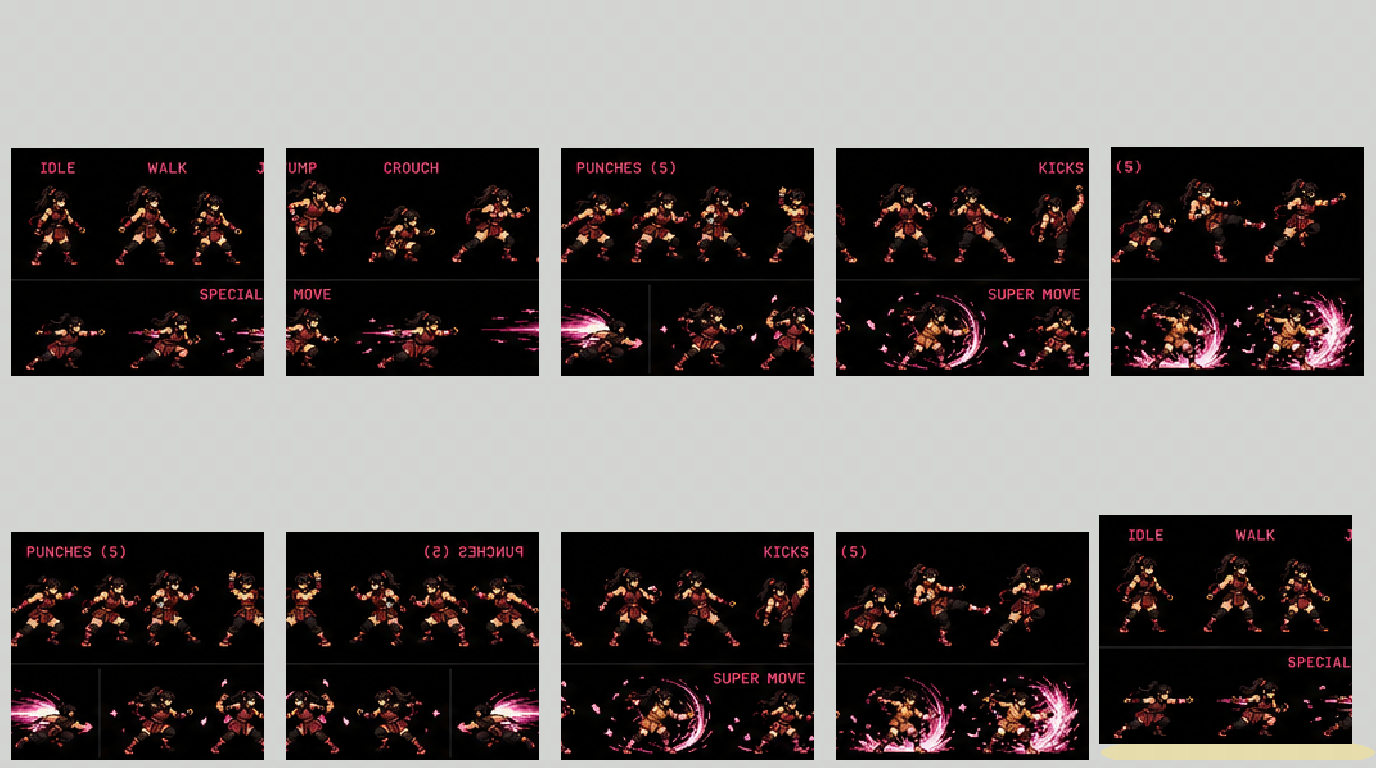
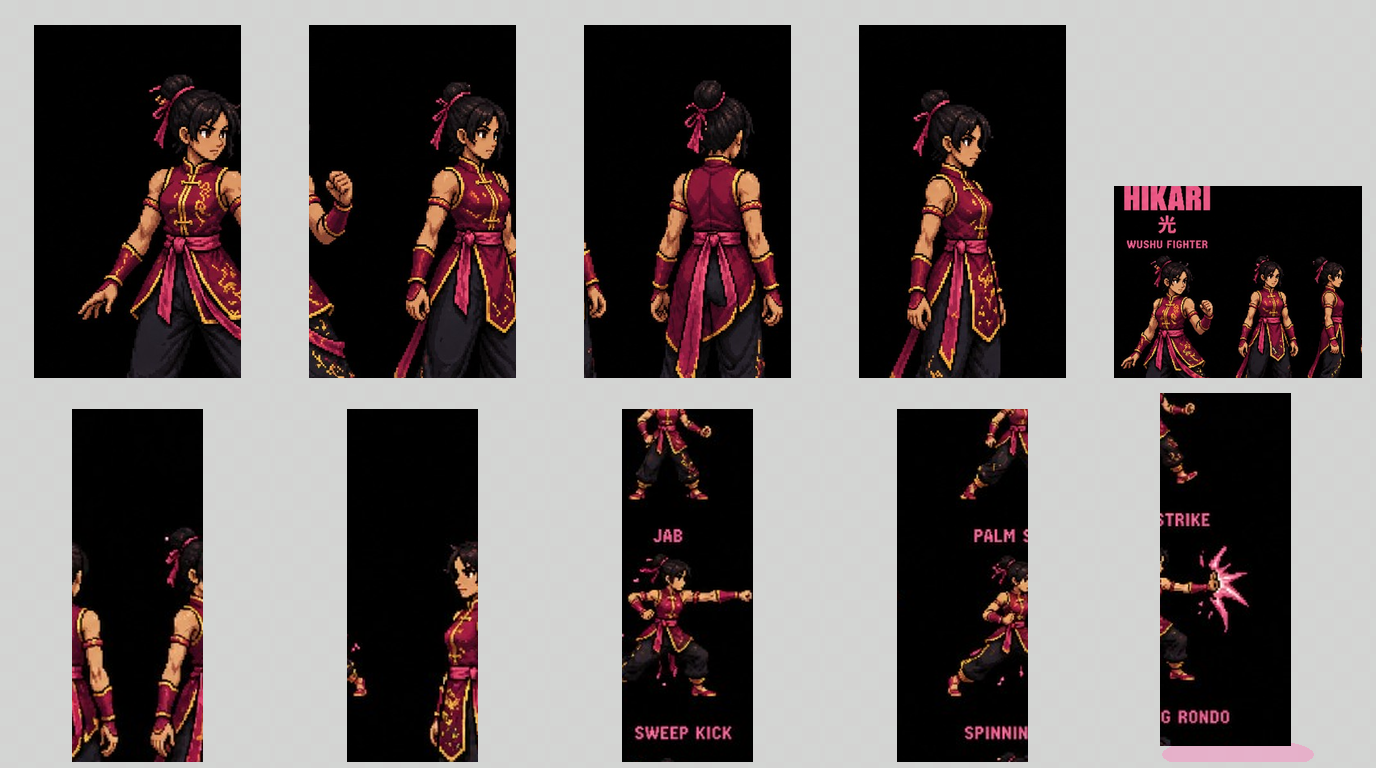
Hikari ASTRA from user reference art; compose_hikari_user_astra.py, cache v=14
Made-with: Cursor

diff --git a/index.html b/index.html
@@ -177,11 +177,11 @@
 <script src="js/main-menu.js?v=9"></script>
 <script src="js/leaderboardData.js?v=9"></script>
 <script src="js/leaderboard-screen.js?v=9"></script>
-<script src="js/kfr-game.js?v=13"></script>
-<link rel="preload" as="image" href="assets/astra_fighter_sheet.png?v=13" fetchpriority="low"/>
-<link rel="preload" as="image" href="assets/astra_raijin.png?v=13" fetchpriority="low"/>
-<link rel="preload" as="image" href="assets/astra_hikari.png?v=13" fetchpriority="low"/>
-<link rel="preload" as="image" href="assets/astra_ren.png?v=13" fetchpriority="low"/>
-<link rel="preload" as="image" href="assets/astra_yuki.png?v=13" fetchpriority="low"/>
+<script src="js/kfr-game.js?v=14"></script>
+<link rel="preload" as="image" href="assets/astra_fighter_sheet.png?v=14" fetchpriority="low"/>
+<link rel="preload" as="image" href="assets/astra_raijin.png?v=14" fetchpriority="low"/>
+<link rel="preload" as="image" href="assets/astra_hikari.png?v=14" fetchpriority="low"/>
+<link rel="preload" as="image" href="assets/astra_ren.png?v=14" fetchpriority="low"/>
+<link rel="preload" as="image" href="assets/astra_yuki.png?v=14" fetchpriority="low"/>
 </body>
 </html>

diff --git a/js/kfr-game.js b/js/kfr-game.js
@@ -162,7 +162,7 @@ function resolveAssetPath(rel) {
   return rel;
 }
 /** Busts long-lived /assets/* immutable cache if sheet bytes change; keep in sync with index.html if preloaded. */
-const ASTRA_ASSET_VER = '13';
+const ASTRA_ASSET_VER = '14';
 const ASTRA_FIGHTER_SHEET_SRC = [
   `assets/astra_fighter_sheet.png?v=${ASTRA_ASSET_VER}`,
   `assets/astra_raijin.png?v=${ASTRA_ASSET_VER}`,

diff --git a/scripts/compose_hikari_user_astra.py b/scripts/compose_hikari_user_astra.py
@@ -1,0 +1,176 @@
+#!/usr/bin/env python3
+"""
+Build assets/astra_hikari.png (1376×768 ASTRA) from hand-authored Hikari reference PNGs
+in assets/hikari_concept/. Re-run after updating those sources.
+"""
+from __future__ import annotations
+
+import os
+import sys
+
+from PIL import Image, ImageDraw, ImageOps
+
+W, H = 1376, 768
+CELL_H = 384
+COLS = 5
+RW = 275
+LAST_W = 276
+
+ROOT = os.path.dirname(os.path.dirname(os.path.abspath(__file__)))
+KADEN = os.path.join(ROOT, "assets", "astra_fighter_sheet.png")
+OUT = os.path.join(ROOT, "assets", "astra_hikari.png")
+TURN = os.path.join(ROOT, "assets", "hikari_concept", "hikari_turnaround.png")
+FULL = os.path.join(ROOT, "assets", "hikari_concept", "hikari_full_sheet.png")
+
+
+def kaden_checker_pair():
+    if os.path.exists(KADEN):
+        k = Image.open(KADEN).convert("RGB")
+        return k.getpixel((0, 0))[:3], k.getpixel((20, 0))[:3]
+    return (211, 213, 211), (211, 211, 210)
+
+
+def draw_checker(
+    im: Image.Image, x0: int, y0: int, cw: int, ch: int, a: tuple, b: tuple
+) -> None:
+    dr = ImageDraw.Draw(im, "RGB")
+    size = 18
+    for yy in range(ch):
+        for xx in range(cw):
+            t = ((xx // size) + (yy // size)) % 2
+            c = a if t == 0 else b
+            dr.rectangle(
+                [x0 + xx, y0 + yy, x0 + xx + 1, y0 + yy + 1], fill=c
+            )
+
+
+def cell_x(col: int) -> int:
+    return col * RW
+
+
+def cell_w(col: int) -> int:
+    return LAST_W if col == 4 else RW
+
+
+def split_row(im: Image.Image, n: int, *, h_frac: float) -> list[Image.Image]:
+    w, h = im.size
+    h_use = min(int(h * h_frac), h)
+    w_each = w // n
+    return [
+        im.crop((i * w_each, 0, (i + 1) * w_each, h_use)).copy() for i in range(n)
+    ]
+
+
+def to_rgba(frm: Image.Image) -> Image.Image:
+    if frm.mode == "RGBA":
+        return frm
+    if frm.mode == "P":
+        return frm.convert("RGBA")
+    im = frm.convert("RGB")
+    a = Image.new("L", im.size, 255)
+    return Image.merge("RGBA", (*im.split(), a))
+
+
+def blit_in_cell(
+    out: Image.Image, col: int, row: int, frame: Image.Image, **kw
+) -> None:
+    hflip = bool(kw.get("hflip", False))
+    glow = bool(kw.get("glow", False))
+    pink = bool(kw.get("pink_glow", False))
+    x0, y0 = cell_x(col), row * CELL_H
+    sw, sh = cell_w(col), CELL_H
+    f = to_rgba(frame)
+    if hflip:
+        f = ImageOps.mirror(f)
+    fw, fh = f.size
+    if fw < 1 or fh < 1:
+        return
+    scale = min((sw * 0.9) / fw, (sh * 0.92) / fh)
+    nw, nh = max(1, int(fw * scale)), max(1, int(fh * scale))
+    f = f.resize((nw, nh), Image.Resampling.LANCZOS)
+    f = f.convert("RGBA")
+    if glow:
+        g = Image.new("RGBA", (nw + 24, nh + 16), (0, 0, 0, 0))
+        d = ImageDraw.Draw(g)
+        col_fill = (255, 130, 190, 110) if pink else (100, 180, 255, 100)
+        d.ellipse((2, nh - 8, nw + 22, nh + 24), fill=col_fill)
+        g.paste(f, (0, 0), f)
+        f = g
+    px = x0 + (sw - f.size[0]) // 2
+    py = y0 + sh - f.size[1] - 6
+    if py < y0 + 2:
+        py = y0 + 2
+    out.paste(f, (px, py), f)
+
+
+def extract_action_strip(fim: Image.Image) -> list[Image.Image]:
+    """Right half, mid Y — clear of bottom palette bar on design sheets."""
+    w, h = fim.size
+    x0, x1 = int(w * 0.50), w
+    y0, y1 = int(h * 0.10), int(h * 0.50)
+    if x1 - x0 < 10 or y1 - y0 < 10:
+        return []
+    st = fim.crop((x0, y0, x1, y1))
+    sw = st.size[0] // 5
+    if sw < 2:
+        return []
+    sh = st.size[1]
+    return [st.crop((i * sw, 0, (i + 1) * sw, sh)).copy() for i in range(5)]
+
+
+def extract_jump_hero(fim: Image.Image) -> Image.Image:
+    """Large hero / dynamic pose on left side of full sheet (jump cell)."""
+    w, h = fim.size
+    return fim.crop(
+        (int(w * 0.02), int(h * 0.05), int(w * 0.45), int(h * 0.55))
+    ).copy()
+
+
+def main() -> int:
+    for p in (TURN, FULL):
+        if not os.path.exists(p):
+            print("Missing", p, file=sys.stderr)
+            return 1
+    ft = Image.open(TURN).convert("RGB")
+    ff = Image.open(FULL).convert("RGB")
+
+    turns = split_row(ft, 4, h_frac=0.64)
+    act = extract_action_strip(ff)
+    jump_src = extract_jump_hero(ff)
+
+    if len(act) < 5:
+        act = [turns[0], turns[1], turns[2], turns[2], turns[3]]
+
+    ca, cb = kaden_checker_pair()
+    out = Image.new("RGB", (W, H), (20, 20, 28))
+    for r in range(2):
+        y0 = r * CELL_H
+        for c in range(COLS):
+            draw_checker(out, cell_x(c), y0, cell_w(c), CELL_H, ca, cb)
+
+    # Row0: idle, idle2, walk, walk, jump
+    blit_in_cell(out, 0, 0, turns[0])
+    blit_in_cell(out, 1, 0, turns[1] if len(turns) > 1 else turns[0])
+    blit_in_cell(out, 2, 0, turns[2] if len(turns) > 2 else turns[0])
+    blit_in_cell(out, 3, 0, turns[3] if len(turns) > 3 else turns[0])
+    blit_in_cell(out, 4, 0, jump_src)
+
+    # Row1: strikes from action strip; pink glow on super
+    for i in range(5):
+        blit_in_cell(
+            out,
+            i,
+            1,
+            act[i],
+            hflip=(i == 1),
+            glow=(i == 4),
+            pink_glow=(i == 4),
+        )
+
+    out.save(OUT, "PNG", optimize=True)
+    print("Wrote", OUT, os.path.getsize(OUT), "bytes")
+    return 0
+
+
+if __name__ == "__main__":
+    raise SystemExit(main())

diff --git a/scripts/generate_astra_rival_sheets.py b/scripts/generate_astra_rival_sheets.py
@@ -7,8 +7,8 @@ Default pipeline (this script)
 Composites `assets/raijin_anim.png` … `yuki_anim.png` into the ASTRA grid. Running it
 **overwrites** the four `astra_*.png` rival sheets—skip it if you are shipping hand art.
 
-Raijin from author PNGs: run `python3 scripts/compose_raijin_user_astra.py` (uses
-`assets/raijin_concept/*`) to rebuild `assets/astra_raijin.png` from reference art.
+Raijin from author PNGs: `python3 scripts/compose_raijin_user_astra.py` (`assets/raijin_concept/`).
+Hikari: `python3 scripts/compose_hikari_user_astra.py` (`assets/hikari_concept/`).
 
 Hand export spec — true 10/10 parity with Kaden (`astra_fighter_sheet.png`)
 ----------------------------------------------------------------------------
